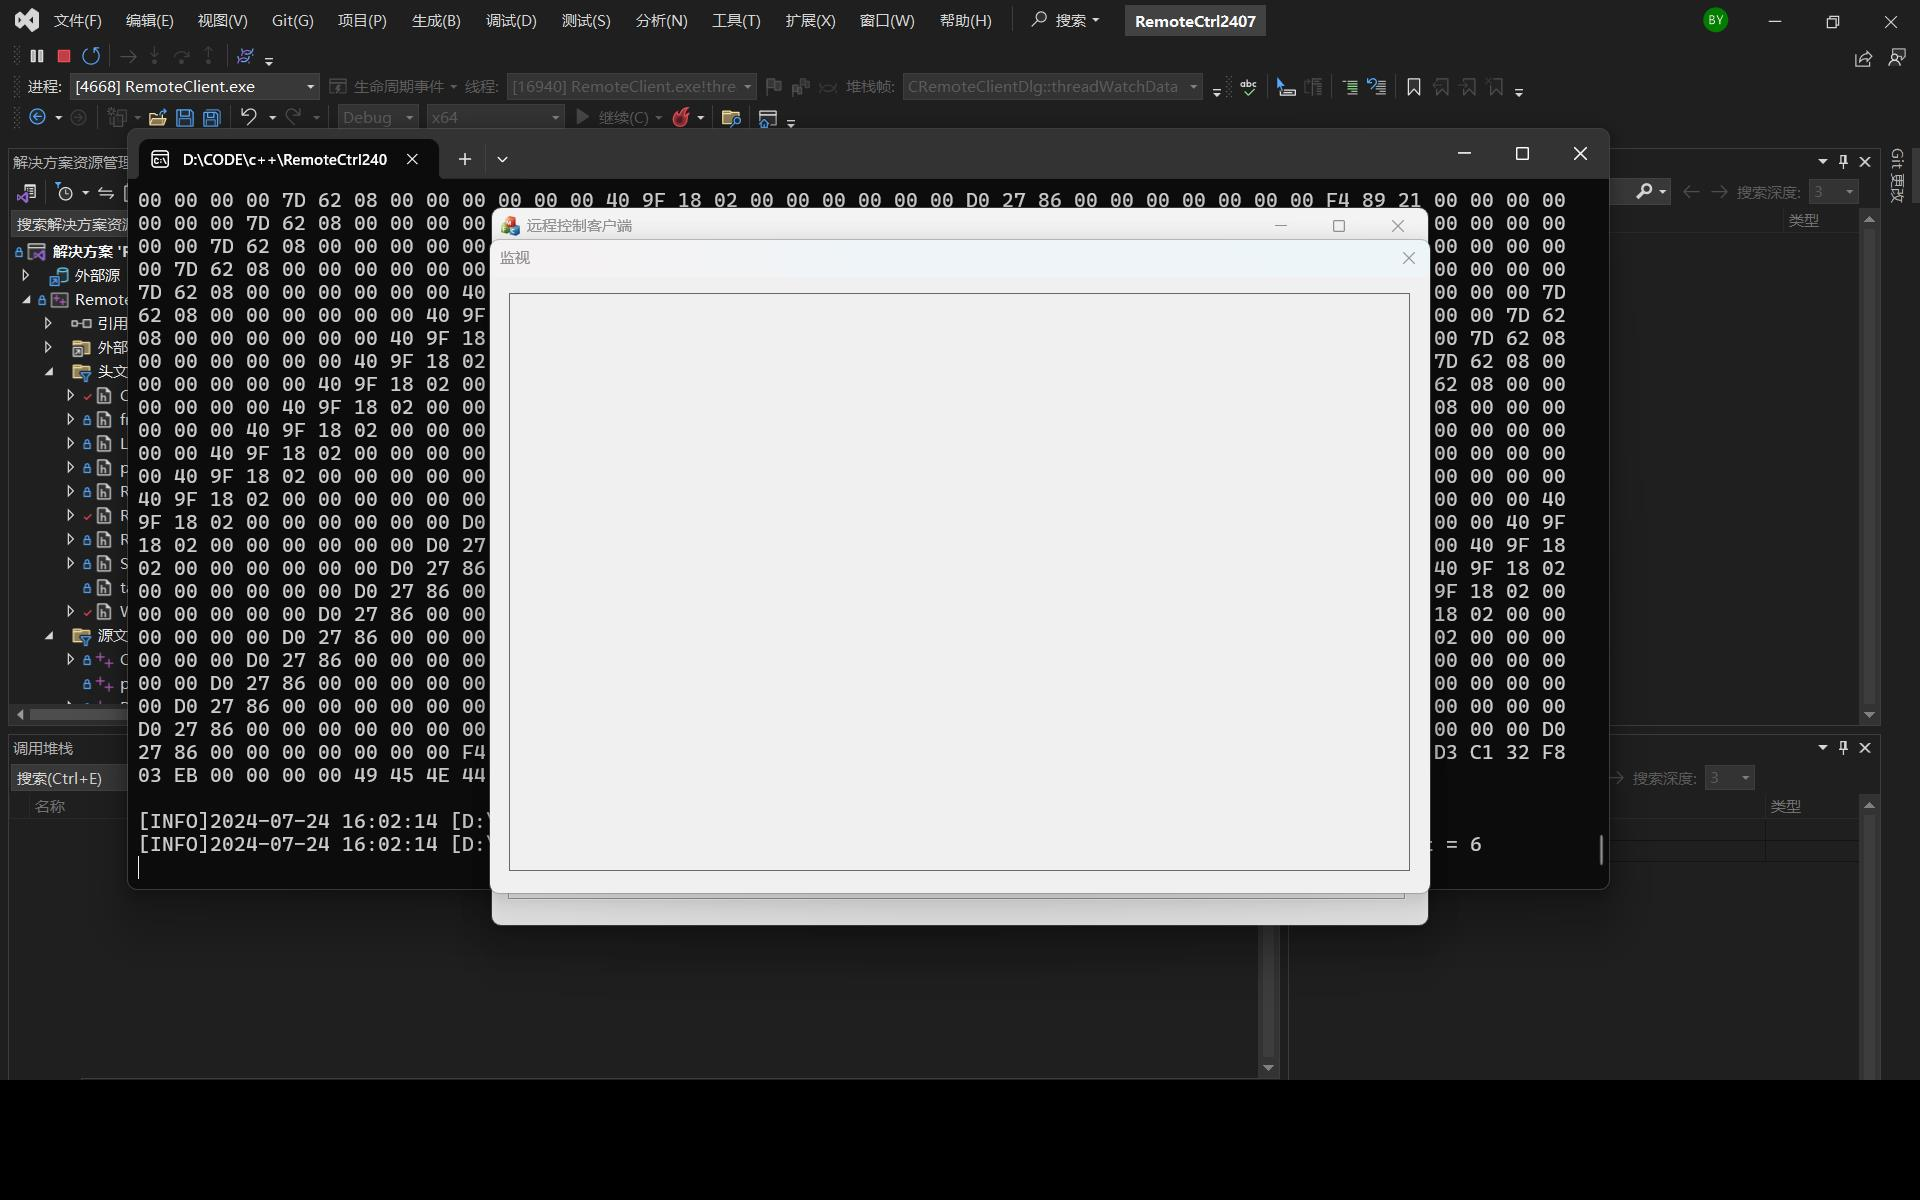
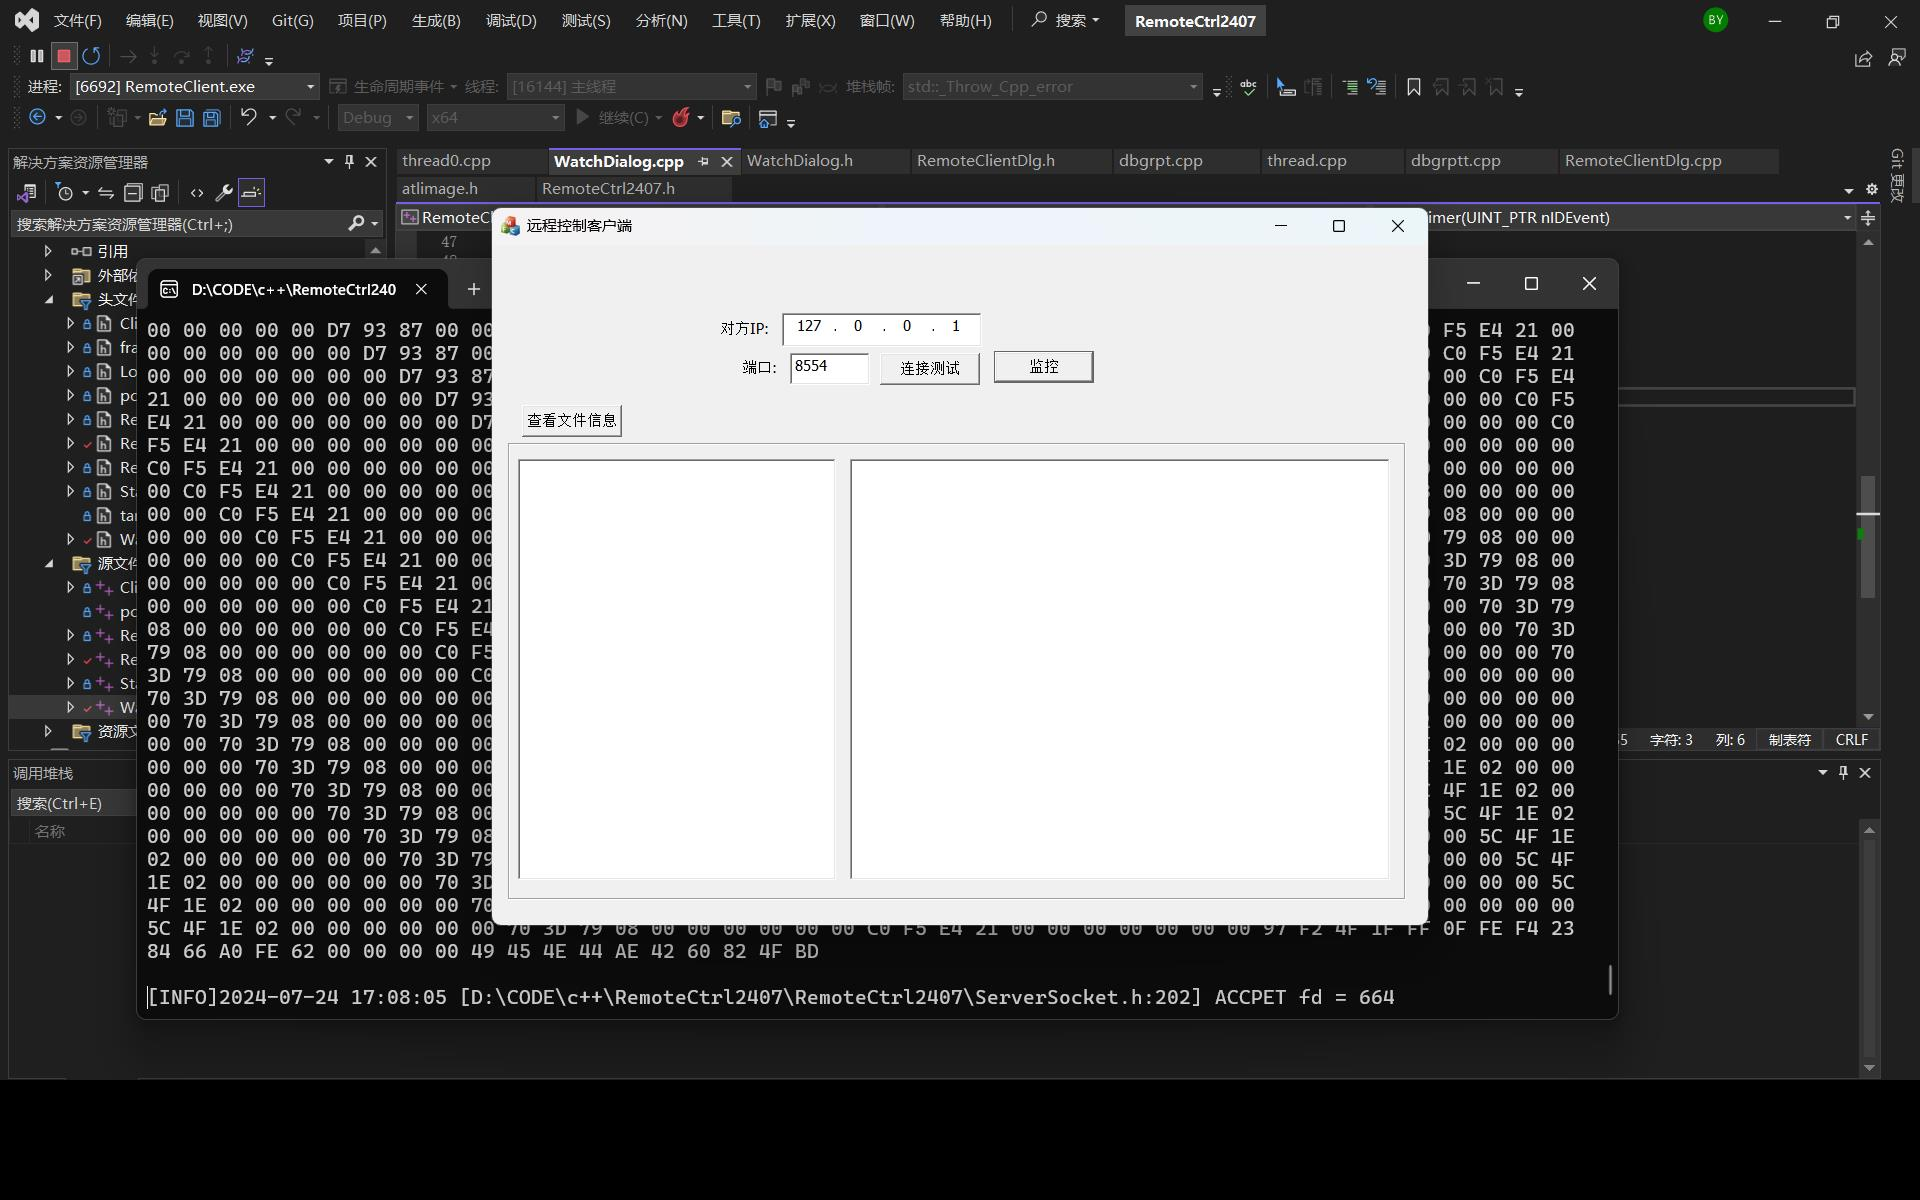
3.7 bug finish m_image竞态问题 互斥锁解决

Changed region(s): [[0.0, 0.1233, 1.0, 0.8942], [0.0, 0.0308, 0.0625, 0.0925], [0.4062, 0.2467, 0.4375, 0.3083]]

diff --git a/RemoteClient/RemoteClientDlg.cpp b/RemoteClient/RemoteClientDlg.cpp
@@ -277,12 +277,16 @@ void CRemoteClientDlg::threadWatchData()
 			HRESULT hRet = CreateStreamOnHGlobal(hMem, TRUE, &pStream);
 			if (hRet == S_OK)
 			{
+				std::lock_guard<std::mutex> lock(m_imageMutex);
 				ULONG length = 0;
 				pStream->Write(pData, pClient->GetPacket().strData.size(), &length);
 				LARGE_INTEGER bg = { 0 };
 				pStream->Seek(bg, STREAM_SEEK_SET, NULL);
-				if ((HBITMAP)m_image != NULL) m_image.Destroy();
-				m_image.Load(pStream);
+				if (m_image.IsDIBSection())
+				{
+					m_image.Destroy();
+				}
+				m_image.Load(pStream); 
 				m_imgfull = true;
 			}
 			pStream->Release();

diff --git a/RemoteClient/RemoteClientDlg.h b/RemoteClient/RemoteClientDlg.h
@@ -4,6 +4,7 @@
 
 #pragma once
 #include "StatusDlg.h"
+#include <mutex>
 
 #define WM_SEND_PACKET (WM_USER + 1)
 
@@ -51,11 +52,11 @@ public:
 	void SetImgStatus(bool isfull = false) {
 		m_imgfull = isfull;
 	}
+	std::mutex m_imageMutex;
 
 private:
 	CImage m_image; // 缓存
 	bool m_imgfull; // true 有， false 无
-
 private:
 	static void threadEntryForWatchData(void* arg); // 转接
 	void threadWatchData();

diff --git a/RemoteClient/WatchDialog.cpp b/RemoteClient/WatchDialog.cpp
@@ -56,6 +56,7 @@ void CWatchDialog::OnTimer(UINT_PTR nIDEvent)
 		CRemoteClientDlg* pParent = (CRemoteClientDlg*)GetParent();
 		if (pParent->isFull())
 		{
+			std::lock_guard<std::mutex> lock(pParent->m_imageMutex);
 			pParent->GetImage().BitBlt(m_picture.GetDC()->GetSafeHdc(),0,0,SRCCOPY);
 			m_picture.InvalidateRect(NULL);
 			pParent->GetImage().Destroy();

diff --git a/RemoteClient/WatchDialog.h b/RemoteClient/WatchDialog.h
@@ -1,6 +1,6 @@
 #pragma once
 #include "afxdialogex.h"
-
+#include <mutex>
 
 // CWatchDialog 对话框
 
@@ -25,4 +25,6 @@ public:
 	virtual BOOL OnInitDialog();
 	afx_msg void OnTimer(UINT_PTR nIDEvent);
 	CStatic m_picture;
+
+
 };
